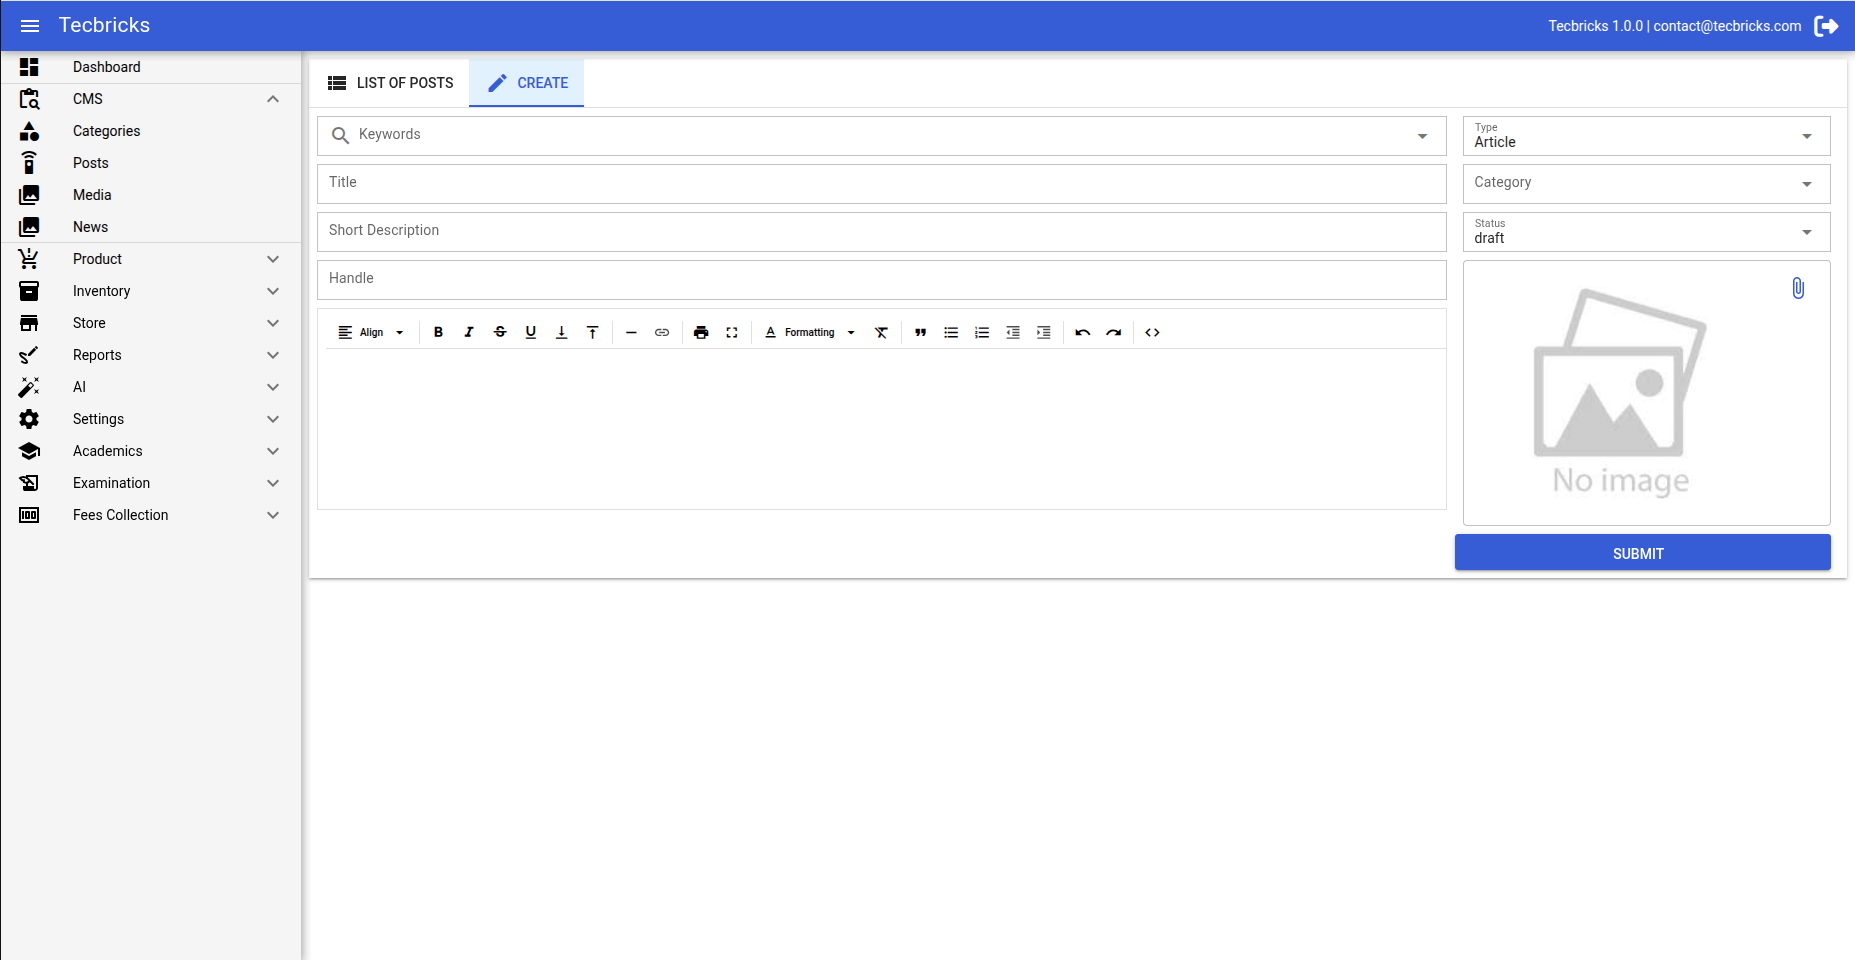
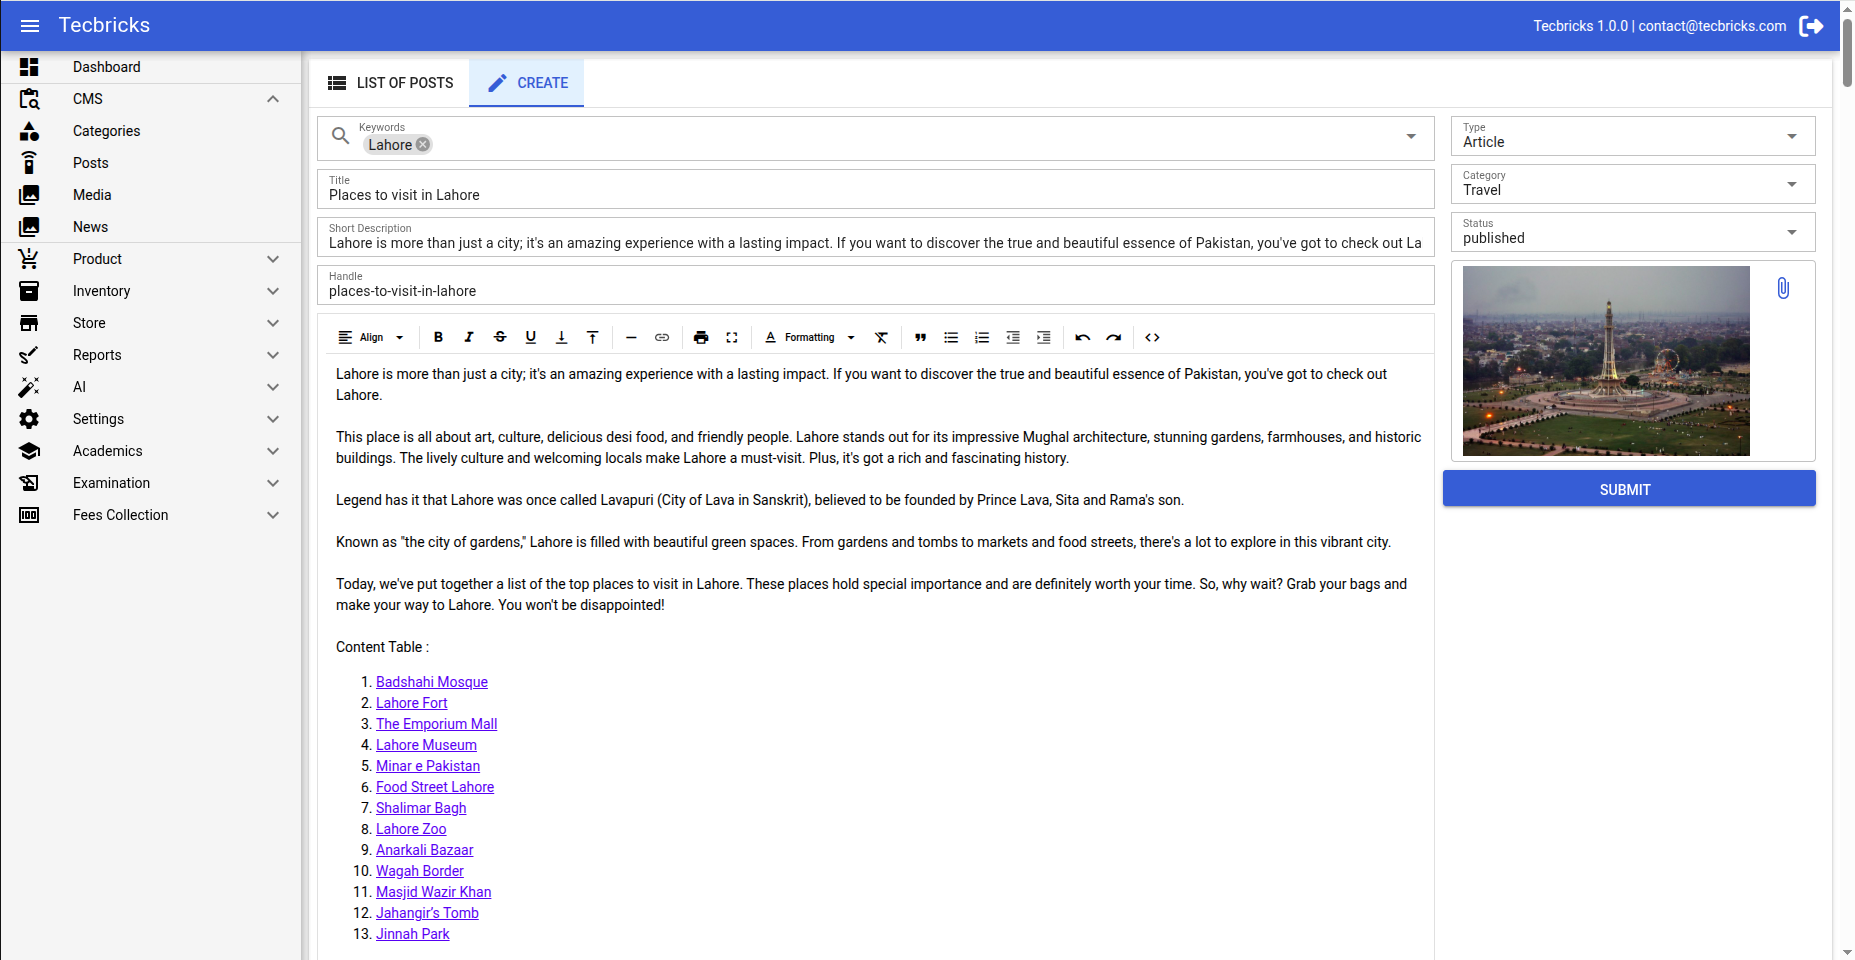
df

diff --git a/README.md b/README.md
@@ -100,6 +100,12 @@ Point of Sale (POS) Screen
 
 ![Dashboard](images/pos_v2.png)
 
+Post Creation
+![CRM](images/2-create-post.png)
+
+Post Listing
+![CRM](images/1-posts.png)
+
 Product List
 ![CRM](images/product_list.png)
 
